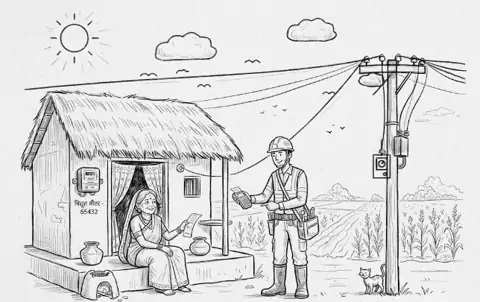
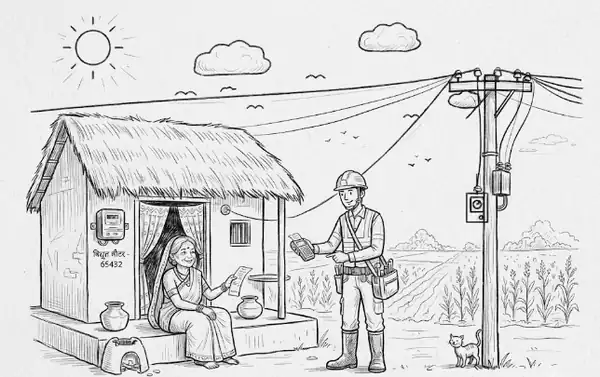
v9.232: header की ख़ाली जगह पर टैप → स्केच पूरे पर्दे पर (JE: विकल्प 1)
header में स्केच बटनों के पीछे दब जाता था (चेहरे छिपते)। अब header की ख़ाली जगह (बटन/टैब/मेनू नहीं)
पर टैप → #sketch-view पूरे पर्दे पर चित्र + नाम, कहीं भी टैप/✕/Esc → बंद (js/ui-core.js
openHeaderSketch/closeHeaderSketch, एक delegated click)। वही header-sketch.webp — कोई नया डाउनलोड
नहीं, बिना नेट भी; पूरे पर्दे पर साफ़ दिखे इसलिए 480→600px (19→28.7 KB)।
टेस्ट: boot-ui — ख़ाली जगह पर खुले, टैप से बंद, मेनू बटन पर न खुले।

Claude-Session: https://claude.ai/code/session_013buZhXgZcHWhdQdL7Dgcwd

Changed region(s): [[0.625, 0.6854, 0.6562, 0.7152], [0.3125, 0.5066, 0.3438, 0.5364]]

diff --git a/js/ui-core.js b/js/ui-core.js
@@ -372,3 +372,37 @@ function _setupBnavAutoHide(){
 }
 _setupBnavAutoHide();
 
+
+// ── v9.232 (JE, 16/10): header का स्केच अकेले, पूरे पर्दे पर ──
+// header में स्केच बटनों के पीछे दबा रहता है; header की ख़ाली जगह (बटन/टैब/मेनू नहीं) पर टैप → पूरा चित्र,
+// फिर कहीं भी टैप → बंद। वही फ़ाइल जो header में पहले से फ़ोन में है — कोई नया डाउनलोड नहीं, बिना नेट भी
+function openHeaderSketch(){
+  var ov=document.getElementById("sketch-view");
+  if(!ov){
+    ov=document.createElement("div");
+    ov.id="sketch-view";
+    ov.setAttribute("role","dialog");
+    ov.setAttribute("aria-label","गाँव के घर पर बिजली बिल वसूली करता लाइनमैन");
+    var im=document.createElement("img");
+    im.src="icons/header-sketch.webp"; im.alt="गाँव के घर पर बिजली बिल वसूली करता लाइनमैन";
+    var cap=document.createElement("div");
+    cap.className="sketch-cap"; cap.textContent="गाँव के घर पर बिजली बिल वसूली करता लाइनमैन";
+    var x=document.createElement("button");
+    x.type="button"; x.className="sketch-x"; x.setAttribute("aria-label","बंद करें"); x.textContent="✕";
+    ov.appendChild(x); ov.appendChild(im); ov.appendChild(cap);
+    ov.addEventListener("click",closeHeaderSketch);
+    document.body.appendChild(ov);
+  }
+  ov.classList.add("open");
+}
+function closeHeaderSketch(){
+  var ov=document.getElementById("sketch-view");
+  if(ov) ov.classList.remove("open");
+}
+document.addEventListener("click",function(e){
+  var t=/** @type {Element|null} */(e.target);
+  if(!t||!t.closest||!t.closest(".app-header")) return;
+  if(t.closest("button,a,input,select,label,[onclick],.user-pill,.logout-menu")) return; // बटन का काम वैसा ही
+  openHeaderSketch();
+});
+document.addEventListener("keydown",function(e){ if(e.key==="Escape") closeHeaderSketch(); });

diff --git a/tests/boot-ui.spec.js b/tests/boot-ui.spec.js
@@ -763,3 +763,20 @@ test('स्केच तस्वीरें छोटी, बिना-ने
     return ok('.app-header .hdr-sketch') && ok('#village-menu-item .mn-img') && !!document.querySelector('.app-header .hdr-tower-deco');
   })).toBe(true);
 });
+
+// v9.232: header की ख़ाली जगह पर टैप → स्केच पूरे पर्दे पर; बटन/मेनू पर टैप से नहीं; कहीं भी टैप → बंद
+test('header की ख़ाली जगह पर टैप से स्केच पूरे पर्दे पर, बटन पर नहीं', async ({ page }) => {
+  await openApp(page);
+  await loginJE(page);
+  await page.evaluate(() => { const L = document.getElementById('loader'); if (L) L.style.display = 'none'; });
+  const open = () => page.evaluate(() => { const v = document.getElementById('sketch-view'); return !!(v && v.classList.contains('open')); });
+  await page.locator('.hdr-title').click();
+  await expect.poll(open).toBe(true);
+  await expect(page.locator('#sketch-view img')).toHaveJSProperty('complete', true);
+  await page.locator('#sketch-view').click();
+  await expect.poll(open).toBe(false);
+  await page.locator('#uname-disp').click(); // मेनू खुले, स्केच नहीं
+  await page.waitForTimeout(200);
+  expect(await open()).toBe(false);
+  await expect(page.locator('#logout-menu')).toHaveClass(/open/);
+});

diff --git a/css/style.css b/css/style.css
@@ -594,3 +594,10 @@ html.big-text .si{font-size:15px;}
 /* ── v9.206: फ़ोन-खिड़की में SMS का पूर्वावलोकन (छोटा रूप) ── */
 .sms-prev{margin:2px 4px 10px;padding:9px 11px;border-radius:10px;background:rgba(33,150,243,.07);border:1px dashed rgba(33,150,243,.45);font-size:12px;line-height:1.55;color:var(--text);white-space:pre-line;}
 .sms-prev b{display:block;font-size:10.5px;color:#1565c0;margin-bottom:3px;}
+
+/* v9.232: header स्केच पूरे पर्दे पर (js/ui-core.js openHeaderSketch) */
+#sketch-view{position:fixed;inset:0;z-index:9000;background:rgba(8,16,30,.92);display:none;flex-direction:column;align-items:center;justify-content:center;padding:16px;gap:12px;cursor:pointer;}
+#sketch-view.open{display:flex;}
+#sketch-view img{max-width:100%;max-height:78vh;border-radius:12px;background:#fff;box-shadow:0 10px 40px rgba(0,0,0,.5);}
+#sketch-view .sketch-cap{color:#e8eef6;font-size:14px;font-weight:700;text-align:center;}
+#sketch-view .sketch-x{position:absolute;top:12px;right:14px;width:40px;height:40px;border-radius:50%;border:none;background:rgba(255,255,255,.15);color:#fff;font-size:20px;cursor:pointer;}
